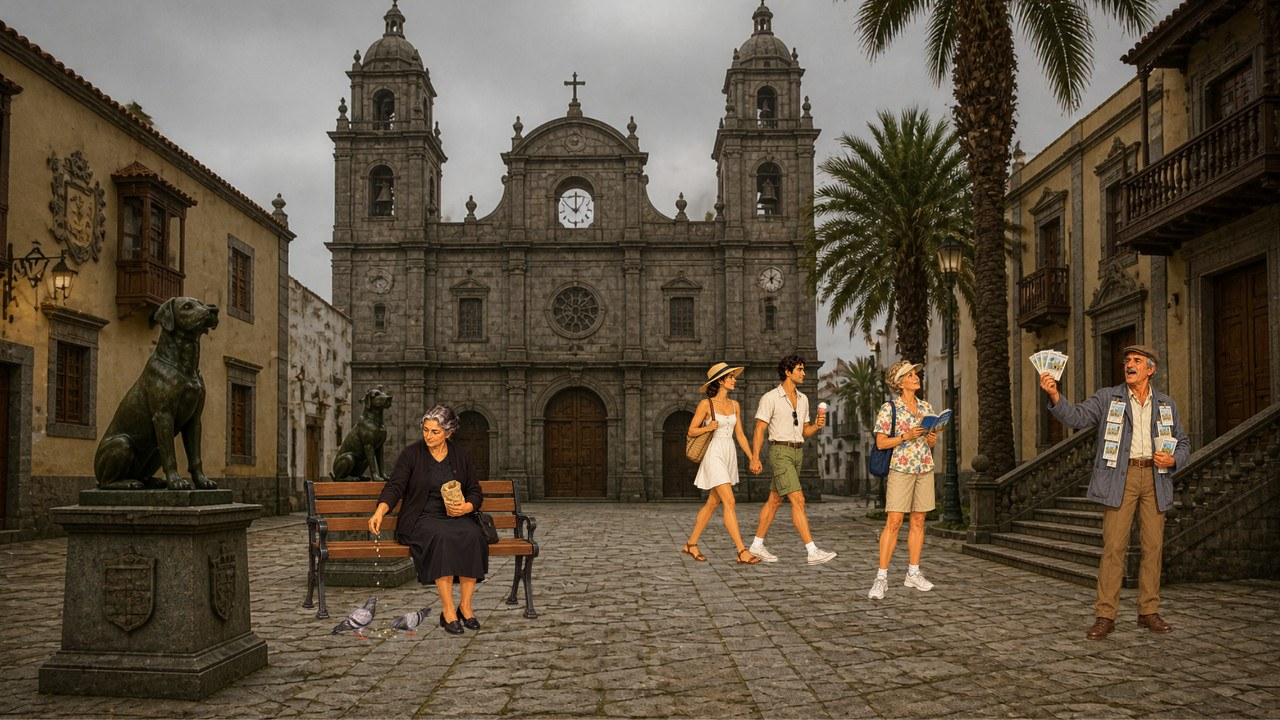
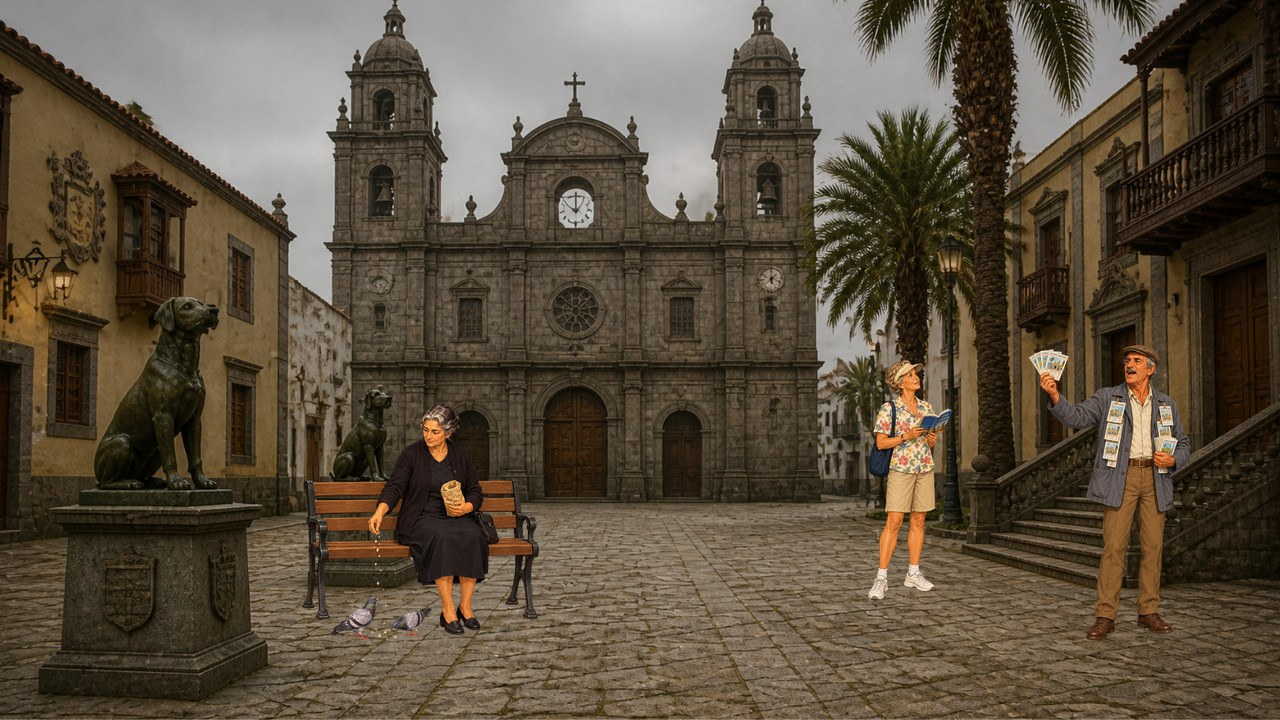
Sequel: background people redos from the review; placement tool (drag, flip, rotate, size, with Alan and the room's cast)
Claude-Session: https://claude.ai/code/session_016HTeTNSXEDV8gmJrtKWM3n

Changed region(s): [[0.5312, 0.4889, 0.6562, 0.7944]]

diff --git a/sequel/art/review/extras/placer/index.html b/sequel/art/review/extras/placer/index.html
@@ -1,0 +1,223 @@
+<title>Background People Placer</title>
+<meta name="claude:viewport-fit-sides" content="cover">
+<link rel="preconnect" href="https://fonts.googleapis.com">
+<link rel="stylesheet" href="https://fonts.googleapis.com/css2?family=Fraunces:opsz,wght@9..144,600&family=Source+Sans+3:wght@400;600&family=JetBrains+Mono:wght@400&display=swap">
+<style>
+/* layout: a set-dresser's bench; room tabs across the top, the painting as the stage, the selected figure's controls beside it, the figure tray below */
+:root {
+  --bg: #ecebe7; --panel: #e0ded8; --card: #f7f6f2; --ink: #22242a; --muted: #62666f; --line: #cfccc4;
+  --accent: #2c6e7f; --sel: #e0a43a; --danger: #a8432a; --stage: #1c1d22;
+  --display: "Fraunces", Georgia, serif; --body: "Source Sans 3", system-ui, sans-serif; --mono: "JetBrains Mono", ui-monospace, monospace;
+}
+@media (prefers-color-scheme: dark) { :root:not([data-theme="light"]) {
+  --bg: #17181c; --panel: #212329; --card: #1d1f24; --ink: #e9e8e4; --muted: #9da1aa; --line: #33363e;
+  --accent: #7cc0d1; --sel: #f0b450; --danger: #ef8a6c; --stage: #0f1013; color-scheme: dark } }
+:root[data-theme="dark"] { --bg: #17181c; --panel: #212329; --card: #1d1f24; --ink: #e9e8e4; --muted: #9da1aa; --line: #33363e;
+  --accent: #7cc0d1; --sel: #f0b450; --danger: #ef8a6c; --stage: #0f1013; color-scheme: dark }
+body { background: var(--bg); color: var(--ink); font: 15px/1.45 var(--body); }
+main { max-width: 1500px; margin: 0 auto; padding-block: 20px 48px; padding-left: max(16px, env(safe-area-inset-left, 0px)); padding-right: max(16px, env(safe-area-inset-right, 0px)); display: grid; gap: 14px; }
+header { display: flex; flex-wrap: wrap; align-items: baseline; gap: 6px 18px; }
+h1 { font: 600 26px/1.1 var(--display); margin: 0; }
+.status { font-size: 13px; color: var(--muted); }
+.tabs { display: flex; flex-wrap: wrap; gap: 6px; }
+.tabs button { font: 600 13px var(--body); padding: 6px 12px; border-radius: 99px; border: 1px solid var(--line); background: var(--card); color: var(--ink); cursor: pointer; }
+.tabs button[aria-pressed="true"] { background: var(--accent); border-color: var(--accent); color: var(--card); }
+.tabs button .n { font: 400 11px var(--mono); opacity: .75; margin-left: 4px; }
+.work { display: grid; grid-template-columns: minmax(0, 1fr) 280px; gap: 14px; align-items: start; }
+@media (max-width: 900px) { .work { grid-template-columns: 1fr; } }
+.stage { position: relative; aspect-ratio: 16 / 9; max-width: 100%; background: var(--stage) center/cover no-repeat; border-radius: 6px; overflow: hidden; user-select: none; touch-action: none; }
+.stage svg { position: absolute; inset: 0; width: 100%; height: 100%; pointer-events: none; }
+.fig { position: absolute; transform-origin: 50% 100%; cursor: grab; touch-action: none; }
+.fig img { display: block; width: 100%; height: 100%; pointer-events: none; }
+.fig.sel { outline: 2px dashed var(--sel); outline-offset: 2px; }
+.fig.ghost { opacity: .6; cursor: move; }
+.fig.cast { pointer-events: none; }
+.fig .tag { position: absolute; left: 50%; top: -18px; transform: translateX(-50%); font: 400 10px var(--mono); background: rgba(0,0,0,.6); color: #fff; padding: 1px 5px; border-radius: 3px; white-space: nowrap; }
+.fig:focus-visible { outline: 2px solid var(--accent); }
+.side { background: var(--card); border: 1px solid var(--line); border-radius: 8px; padding: 12px; display: grid; gap: 10px; }
+.side h2 { font: 600 17px var(--display); margin: 0; overflow-wrap: anywhere; }
+.side .hint { font-size: 13px; color: var(--muted); margin: 0; }
+.row { display: grid; grid-template-columns: 64px 1fr 44px; gap: 8px; align-items: center; font-size: 13px; }
+.row output { font: 400 12px var(--mono); text-align: right; font-variant-numeric: tabular-nums; }
+.row input[type=range] { width: 100%; }
+.btns { display: flex; flex-wrap: wrap; gap: 6px; }
+.btns button, .side select { font: 600 13px var(--body); padding: 6px 10px; border-radius: 6px; border: 1px solid var(--line); background: var(--panel); color: var(--ink); cursor: pointer; }
+.btns button.danger { color: var(--danger); }
+.btns button:disabled { opacity: .45; cursor: default; }
+button:focus-visible, select:focus-visible, input:focus-visible { outline: 2px solid var(--accent); outline-offset: 2px; }
+.toggles { display: grid; gap: 4px; font-size: 13px; }
+.tray { display: grid; grid-template-columns: repeat(auto-fill, minmax(min(100%, 112px), 1fr)); gap: 8px; }
+.tray button { background: var(--card); border: 1px solid var(--line); border-radius: 6px; padding: 6px; cursor: pointer; display: grid; gap: 4px; color: var(--ink); font: 400 11px var(--mono); text-align: center; overflow-wrap: anywhere; }
+.tray button img { width: 100%; height: 90px; object-fit: contain; }
+.tray button.here { border-color: var(--accent); }
+.tray-h { display: flex; flex-wrap: wrap; align-items: baseline; gap: 4px 14px; }
+.tray-h h2 { font: 600 17px var(--display); margin: 0; }
+.tray-h p { margin: 0; font-size: 13px; color: var(--muted); }
+</style>
+<main>
+<header>
+  <h1>Background people</h1>
+  <span class="status" id="status">Loading…</span>
+</header>
+<div class="tabs" id="tabs" role="group" aria-label="Rooms"></div>
+<div class="work">
+  <div class="stage" id="stage" aria-label="Room painting"><svg viewBox="0 0 1280 720" preserveAspectRatio="none" id="floor"></svg></div>
+  <aside class="side" id="side">
+    <h2 id="sel-name">Nothing selected</h2>
+    <p class="hint" id="sel-hint">Click a figure in the room to select it, or add one from the tray below. Drag to move: size follows the floor's depth, as in the game. Alan and the room's cast are there to measure against.</p>
+    <div class="row"><label for="size">Size</label><input type="range" id="size" min="0.5" max="1.6" step="0.01" value="1"><output id="size-o">1.00</output></div>
+    <div class="row"><label for="rot">Rotate</label><input type="range" id="rot" min="-45" max="45" step="1" value="0"><output id="rot-o">0°</output></div>
+    <div class="btns">
+      <button type="button" id="flip">Flip</button><button type="button" id="front">To front</button><button type="button" id="back">To back</button>
+      <button type="button" id="dup">Duplicate</button><button type="button" id="del" class="danger">Remove</button>
+    </div>
+    <label class="row" style="grid-template-columns:64px 1fr"><span>Room</span><select id="move"></select></label>
+    <div class="toggles">
+      <label><input type="checkbox" id="t-floor"> Show the walkable floor</label>
+      <label><input type="checkbox" id="t-alan" checked> Show Alan for scale (not saved; drag him)</label>
+      <label><input type="checkbox" id="t-cast" checked> Show the room's cast where the game stands them (fixed)</label>
+    </div>
+    <p class="hint">Keys: arrows nudge, Shift+arrows nudge more, F flips, Delete removes.</p>
+  </aside>
+</div>
+<section>
+  <div class="tray-h"><h2>Tray</h2><p>Click a figure to add it to this room. A figure can stand in several rooms; outlined ones are already in this room.</p></div>
+  <div class="tray" id="tray" style="margin-top:8px"></div>
+</section>
+</main>
+<script>
+const $ = id => document.getElementById(id);
+const st = { data: null, room: null, pl: {}, sel: null, db: null, can: false, me: '', alan: { x: 200, y: 680 }, saving: {} };
+const W = 1280, H = 720;
+let R = {}, X = {};
+function heightAt(room, y) { const [y0, h0, y1, h1] = room.scale; return h0 + (h1 - h0) * (y - y0) / (y1 - y0); }
+function boxOf(p) {   // size of a placed figure in painting px, from the depth at its feet
+  const x = X[p.extra], room = R[p.room], Hy = heightAt(room, p.y) * (p.size || 1);
+  return x.k === 'w' ? { w: Hy, h: Hy * x.h / x.w } : { w: Hy * x.k * x.w / x.h, h: Hy * x.k };
+}
+function pct(v, of) { return (v / of * 100) + '%'; }
+function draw() {
+  const stage = $('stage'), room = R[st.room];
+  stage.style.backgroundImage = `url(bg_${st.room}.jpg)`;
+  stage.querySelectorAll('.fig').forEach(e => e.remove());
+  const list = Object.entries(st.pl).filter(([, p]) => p.room === st.room).sort((a, b) => (a[1].y + (a[1].z || 0)) - (b[1].y + (b[1].z || 0)));
+  for (const [id, p] of list) {
+    const b = boxOf(p), el = document.createElement('div'); el.className = 'fig' + (st.sel === id ? ' sel' : ''); el.tabIndex = 0; el.dataset.id = id;
+    el.setAttribute('aria-label', p.extra.replace(/_/g, ' '));
+    Object.assign(el.style, { left: pct(p.x - b.w / 2, W), top: pct(p.y - b.h, H), width: pct(b.w, W), height: pct(b.h, H),
+      transform: `rotate(${p.rot || 0}deg) scaleX(${p.flip ? -1 : 1})` });
+    el.innerHTML = `<img src="x_${p.extra}.webp" alt="">`;
+    el.addEventListener('pointerdown', e => startDrag(e, id));
+    el.addEventListener('focus', () => select(id));
+    stage.append(el);
+  }
+  if ($('t-cast').checked) for (const c of (st.data.cast[st.room] || [])) {   // the room's own cast, where the game stands them (fixed)
+    const el = document.createElement('div'); el.className = 'fig cast'; el.setAttribute('aria-label', c.name + ', where the game stands them');
+    const w = c.h * c.w / c.ih;
+    Object.assign(el.style, { left: pct(c.x - w * c.ax, W), top: pct(c.y - c.h, H), width: pct(w, W), height: pct(c.h, H), transform: `scaleX(${c.flip ? -1 : 1})` });
+    el.innerHTML = `<img src="${c.img}" alt=""><span class="tag"></span>`; el.querySelector('.tag').textContent = c.name; el.querySelector('.tag').style.transform = `translateX(-50%) scaleX(${c.flip ? -1 : 1})`;
+    stage.append(el);
+  }
+  if (st.alanRoom !== st.room) {   // Alan starts at the front of each room's floor, to the left
+    const ys = room.walk.map(p => p[1]); st.alan = { x: 220, y: Math.max(...ys) - 24 }; st.alanRoom = st.room;
+  }
+  if ($('t-alan').checked) {   // Alan, for scale
+    const Hy = heightAt(room, st.alan.y), w = Hy * st.data.alan.w / st.data.alan.h, el = document.createElement('div');
+    el.className = 'fig ghost'; el.setAttribute('aria-label', 'Alan, for scale');
+    Object.assign(el.style, { left: pct(st.alan.x - w / 2, W), top: pct(st.alan.y - Hy, H), width: pct(w, W), height: pct(Hy, H) });
+    el.innerHTML = '<img src="alan.webp" alt=""><span class="tag">Alan</span>'; el.addEventListener('pointerdown', e => startDrag(e, null)); stage.append(el);
+  }
+  $('floor').innerHTML = $('t-floor').checked ? `<polygon points="${room.walk.map(p => p.join(',')).join(' ')}" fill="rgba(60,170,210,.18)" stroke="rgba(60,170,210,.9)" stroke-width="2"/>` : '';
+  panel(); tabs(); tray();
+}
+function tabs() {
+  const t = $('tabs'); t.replaceChildren();
+  for (const r of st.data.rooms) {
+    const n = Object.values(st.pl).filter(p => p.room === r.id).length, b = document.createElement('button');
+    b.type = 'button'; b.setAttribute('aria-pressed', String(r.id === st.room)); b.textContent = r.name;
+    const s = document.createElement('span'); s.className = 'n'; s.textContent = n; b.append(s);
+    b.onclick = () => { st.room = r.id; st.sel = null; draw(); }; t.append(b);
+  }
+}
+function tray() {
+  const t = $('tray'); t.replaceChildren();
+  for (const x of st.data.extras) {
+    const b = document.createElement('button'); b.type = 'button';
+    if (Object.values(st.pl).some(p => p.room === st.room && p.extra === x.id)) b.className = 'here';
+    b.innerHTML = `<img src="x_${x.id}.webp" alt=""><span></span>`; b.querySelector('span').textContent = x.id.replace(/_/g, ' ');
+    b.title = x.desc; b.disabled = !st.can; b.onclick = () => add(x.id); t.append(b);
+  }
+}
+function panel() {
+  const p = st.sel && st.pl[st.sel], on = !!p && st.can;
+  $('sel-name').textContent = p ? p.extra.replace(/_/g, ' ') : 'Nothing selected';
+  $('sel-hint').hidden = !!p;
+  ['size', 'rot', 'flip', 'front', 'back', 'dup', 'del', 'move'].forEach(k => $(k).disabled = !on);
+  $('size').value = p ? (p.size || 1) : 1; $('size-o').textContent = (+$('size').value).toFixed(2);
+  $('rot').value = p ? (p.rot || 0) : 0; $('rot-o').textContent = $('rot').value + '°';
+  $('move').replaceChildren(...st.data.rooms.map(r => new Option(r.name, r.id, false, p && p.room === r.id)));
+}
+function select(id) { if (st.sel === id) return; st.sel = id; document.querySelectorAll('.fig').forEach(e => e.classList.toggle('sel', e.dataset.id === id)); panel(); }
+function startDrag(e, id) {
+  e.preventDefault(); const stage = $('stage'), rect = stage.getBoundingClientRect(), k = W / rect.width;
+  const tgt = id ? st.pl[id] : st.alan; if (id) select(id); if (id && !st.can) return;
+  const sx = e.clientX, sy = e.clientY, ox = tgt.x, oy = tgt.y, el = e.currentTarget; el.setPointerCapture(e.pointerId); el.style.cursor = 'grabbing';
+  const move = ev => { tgt.x = Math.round(Math.max(0, Math.min(W, ox + (ev.clientX - sx) * k))); tgt.y = Math.round(Math.max(40, Math.min(H, oy + (ev.clientY - sy) * k))); draw(); };
+  const up = () => { el.removeEventListener('pointermove', move); el.removeEventListener('pointerup', up); el.removeEventListener('pointercancel', up); if (id && (tgt.x !== ox || tgt.y !== oy)) save(id); };
+  el.addEventListener('pointermove', move); el.addEventListener('pointerup', up); el.addEventListener('pointercancel', up);
+}
+function newId() { return 'p' + Date.now().toString(36) + Math.random().toString(36).slice(2, 6); }
+function add(extra) {
+  const room = R[st.room], ys = room.walk.map(p => p[1]), y = Math.round((Math.min(...ys) + Math.max(...ys)) / 2), id = newId();
+  st.pl[id] = { extra, room: st.room, x: 640, y, size: 1, rot: 0, flip: false, z: 0 }; st.sel = id; draw(); save(id);
+}
+async function save(id) {
+  const p = st.pl[id]; if (!st.db || !p) return;
+  clearTimeout(st.saving[id]);
+  st.saving[id] = setTimeout(async () => {
+    try { await st.db.doc('placements/' + id).set({ ...p, by: st.me, at: Date.now() }); $('status').textContent = 'Saved.'; }
+    catch (e) { $('status').textContent = 'Could not save (' + (e.code || 'error') + '). Move it again to retry.'; }
+  }, 250);
+}
+async function remove(id) {
+  const p = st.pl[id]; delete st.pl[id]; st.sel = null; draw();
+  try { await st.db.doc('placements/' + id).delete(); $('status').textContent = 'Removed.'; }
+  catch (e) { st.pl[id] = p; draw(); $('status').textContent = 'Could not remove (' + (e.code || 'error') + ').'; }
+}
+$('size').oninput = () => { const p = st.pl[st.sel]; if (!p) return; p.size = +$('size').value; draw(); save(st.sel); };
+$('rot').oninput = () => { const p = st.pl[st.sel]; if (!p) return; p.rot = +$('rot').value; draw(); save(st.sel); };
+$('flip').onclick = () => { const p = st.pl[st.sel]; if (!p) return; p.flip = !p.flip; draw(); save(st.sel); };
+$('front').onclick = () => { const p = st.pl[st.sel]; if (!p) return; p.z = (p.z || 0) + 40; draw(); save(st.sel); };
+$('back').onclick = () => { const p = st.pl[st.sel]; if (!p) return; p.z = (p.z || 0) - 40; draw(); save(st.sel); };
+$('dup').onclick = () => { const p = st.pl[st.sel]; if (!p) return; const id = newId(); st.pl[id] = { ...p, x: Math.min(W, p.x + 60) }; st.sel = id; draw(); save(id); };
+$('del').onclick = () => { if (st.sel) remove(st.sel); };
+$('move').onchange = () => { const p = st.pl[st.sel]; if (!p) return; p.room = $('move').value; st.room = p.room; draw(); save(st.sel); };
+$('t-floor').onchange = draw; $('t-alan').onchange = draw; $('t-cast').onchange = draw;
+document.addEventListener('keydown', e => {
+  const p = st.sel && st.pl[st.sel]; if (!p || !st.can || /INPUT|SELECT|TEXTAREA/.test(document.activeElement.tagName) && document.activeElement.type !== 'checkbox') return;
+  const d = e.shiftKey ? 10 : 2, m = { ArrowLeft: [-d, 0], ArrowRight: [d, 0], ArrowUp: [0, -d], ArrowDown: [0, d] }[e.key];
+  if (m) { e.preventDefault(); p.x += m[0]; p.y += m[1]; draw(); save(st.sel); document.querySelector(`.fig[data-id="${st.sel}"]`)?.focus(); }
+  else if (e.key === 'f' || e.key === 'F') { p.flip = !p.flip; draw(); save(st.sel); }
+  else if (e.key === 'Delete' || e.key === 'Backspace') { e.preventDefault(); remove(st.sel); }
+});
+(async () => {
+  try { st.data = await (await fetch('data.json')).json(); } catch (e) { $('status').textContent = 'Could not load the rooms. Reload the page.'; return; }
+  st.data.rooms.forEach(r => R[r.id] = r); st.data.extras.forEach(x => X[x.id] = x);
+  st.room = st.data.extras[0].room;
+  // until the store answers: the starting layout (each figure where the review page showed it)
+  st.data.extras.forEach(x => st.pl['start_' + x.id] = { extra: x.id, room: x.room, x: x.x, y: x.y, size: 1, rot: 0, flip: false, z: 0 });
+  draw(); $('status').textContent = 'Connecting the store…';
+  const [db, user] = window.claude ? await Promise.all([claude.use('db'), claude.use('user')]) : [null, null];
+  if (!db) { $('status').textContent = 'Sign in to claude.ai with access to this page to place figures. This is the starting layout.'; return; }
+  st.db = db; try { st.me = user ? await user.id() : ''; } catch (e) {}
+  st.can = user ? user.can('data.write') !== false : true;
+  db.collection('placements').onSnapshot(s => {
+    if (s.empty && st.can && !st.seeded) {   // the first visit: save the starting layout so it can be moved
+      st.seeded = true; Object.keys(st.pl).forEach(id => save(id)); $('status').textContent = 'Starting layout saved. Drag away.'; return;
+    }
+    const next = {}; s.docs.forEach(d => { const v = d.data(); if (v && v.extra && X[v.extra] && R[v.room]) next[d.id] = v; });
+    if (!s.empty) { st.pl = next; if (st.sel && !st.pl[st.sel]) st.sel = null; draw(); }
+    $('status').textContent = st.can ? 'Changes save as you go.' : 'You can look; only people who can edit this page can move figures.';
+  }, e => { $('status').textContent = 'The store is not answering (' + e.code + '). Reload to try again.'; });
+})();
+</script>

diff --git a/sequel/docs/HANDOFF.md b/sequel/docs/HANDOFF.md
@@ -543,3 +543,13 @@ the Sea, one glimpse only, no line gives it a voice; the Sea is never funny.
     into their rooms at the layout's depth scale (`room_<room>.jpg`, `sheet.jpg`). Review page with verdicts/notes
     (db `verdicts`, `notes`): https://claude.ai/artifact/A6JdpNawcWPMW9AAQsNpJr. Not in the game: needs a simple
     "extras" layer (a static sprite per room per chapter, behind the walkable cast, no hotspot).
+52. **Background people: review applied; placement tool** (2026-10-29). Review (db of the review page): 16 approved;
+    removed quay_rope, vegueta_couple, beach_surfer_girl ("we don't need them"); redone in Higgsfield from the notes:
+    museum_waiter_tray and cathedral_priest and quay_crate_carrier standing, museum_guest_academic at the pair's
+    cocktail table, restaurant_waiter less formal (first takes in `art/designs/extras/first_takes/`). The user asked for
+    "a tool that would allow me to position them in different rooms, rotate or flip", "with the regular cast that is in
+    those rooms too, and Alan in each, so I can scale using him": https://claude.ai/artifact/1wi1TWruWDpxmZY97YAn9n
+    (`art/review/extras/placer/`, data.json made from extras.json + js/story/layout.js + the cast read from the running
+    game per room and chapter). Placements in its db, collection `placements`: {extra, room, x, y (feet, 1280x720),
+    size (x the depth height), rot (deg), flip, z (draw order nudge)}; seeded on first visit with the preview layout.
+    The game will read these into each room's `ambient` list (no name, no hotspot) once the user is done placing.
